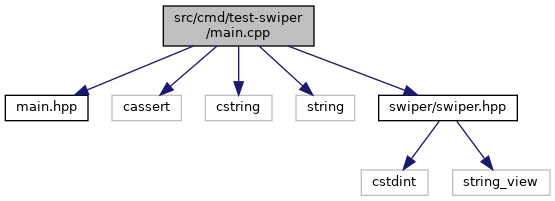
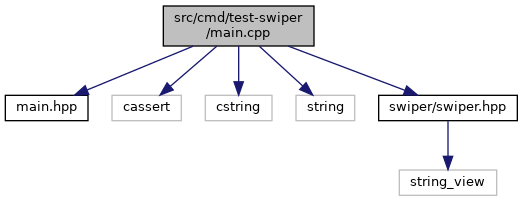
Travis build: 143
Commit: b96a10362ba934e934443407af863b7367ea7ec6

diff --git a/swiper_8hpp_source.html b/swiper_8hpp_source.html
@@ -71,47 +71,46 @@ $(function() {
 <div class="contents">
 <a href="swiper_8hpp.html">Go to the documentation of this file.</a><div class="fragment"><div class="line"><a name="l00001"></a><span class="lineno">    1</span>&#160;<span class="preprocessor">#pragma once</span></div>
 <div class="line"><a name="l00002"></a><span class="lineno">    2</span>&#160; </div>
-<div class="line"><a name="l00010"></a><span class="lineno">   10</span>&#160;<span class="preprocessor">#include &lt;cstdint&gt;</span></div>
-<div class="line"><a name="l00011"></a><span class="lineno">   11</span>&#160;<span class="preprocessor">#include &lt;string_view&gt;</span></div>
-<div class="line"><a name="l00012"></a><span class="lineno">   12</span>&#160; </div>
-<div class="line"><a name="l00016"></a><span class="lineno">   16</span>&#160;<span class="preprocessor">#if defined(_WIN32)</span></div>
-<div class="line"><a name="l00017"></a><span class="lineno">   17</span>&#160;<span class="preprocessor">#define ALWAYS_INLINE __forceinline</span></div>
-<div class="line"><a name="l00018"></a><span class="lineno">   18</span>&#160;<span class="preprocessor">#define NEVER_INLINE __declspec(noinline)</span></div>
-<div class="line"><a name="l00019"></a><span class="lineno">   19</span>&#160;<span class="preprocessor">#else</span></div>
-<div class="line"><a name="l00020"></a><span class="lineno"><a class="line" href="swiper_8hpp.html#aa1dec568e79152c892dcf63f445cbd7a">   20</a></span>&#160;<span class="preprocessor">#define ALWAYS_INLINE inline __attribute((__always_inline__))</span></div>
-<div class="line"><a name="l00021"></a><span class="lineno"><a class="line" href="swiper_8hpp.html#a5251990c23668b067a282c9c3a8ef84a">   21</a></span>&#160;<span class="preprocessor">#define NEVER_INLINE __attribute__ ((__noinline__))</span></div>
-<div class="line"><a name="l00022"></a><span class="lineno">   22</span>&#160;<span class="preprocessor">#endif</span></div>
-<div class="line"><a name="l00023"></a><span class="lineno">   23</span>&#160; </div>
-<div class="line"><a name="l00024"></a><span class="lineno">   24</span>&#160;<span class="preprocessor">#if defined(_WIN32)</span></div>
-<div class="line"><a name="l00025"></a><span class="lineno">   25</span>&#160;<span class="preprocessor">#define NOP __asm{}</span></div>
-<div class="line"><a name="l00026"></a><span class="lineno">   26</span>&#160;<span class="preprocessor">#else</span></div>
-<div class="line"><a name="l00027"></a><span class="lineno"><a class="line" href="swiper_8hpp.html#a700f88377bf36711b711f69b06c52f5d">   27</a></span>&#160;<span class="preprocessor">#define NOP __asm(&quot;&quot;)</span></div>
-<div class="line"><a name="l00028"></a><span class="lineno">   28</span>&#160;<span class="preprocessor">#endif</span></div>
-<div class="line"><a name="l00029"></a><span class="lineno">   29</span>&#160; </div>
-<div class="line"><a name="l00033"></a><span class="lineno"><a class="line" href="namespaceswiper.html">   33</a></span>&#160;<span class="keyword">namespace </span><a class="code" href="namespaceswiper.html">swiper</a> {</div>
-<div class="line"><a name="l00037"></a><span class="lineno"><a class="line" href="namespaceswiper.html#ab43dcb17f7a89d96bf9cc54ebe6862ee">   37</a></span>&#160;    <span class="keyword">const</span> uint8_t <a class="code" href="namespaceswiper.html#ab43dcb17f7a89d96bf9cc54ebe6862ee">Xlat</a>[32] = {</div>
-<div class="line"><a name="l00038"></a><span class="lineno">   38</span>&#160;        0x64, 0x73, 0x66, 0x64,</div>
-<div class="line"><a name="l00039"></a><span class="lineno">   39</span>&#160;        0x3b, 0x6b, 0x66, 0x6f,</div>
-<div class="line"><a name="l00040"></a><span class="lineno">   40</span>&#160;        0x41, 0x2c, 0x2e, 0x69,</div>
-<div class="line"><a name="l00041"></a><span class="lineno">   41</span>&#160;        0x79, 0x65, 0x77, 0x72,</div>
-<div class="line"><a name="l00042"></a><span class="lineno">   42</span>&#160;        0x6b, 0x6c, 0x64, 0x4a,</div>
-<div class="line"><a name="l00043"></a><span class="lineno">   43</span>&#160;        0x4b, 0x44, 0x48, 0x53,</div>
-<div class="line"><a name="l00044"></a><span class="lineno">   44</span>&#160;        0x55, 0x42, 0x73, 0x00,</div>
-<div class="line"><a name="l00045"></a><span class="lineno">   45</span>&#160;        0x00, 0x00, 0x00, 0x00</div>
-<div class="line"><a name="l00046"></a><span class="lineno">   46</span>&#160;    };</div>
-<div class="line"><a name="l00047"></a><span class="lineno">   47</span>&#160; </div>
-<div class="line"><a name="l00053"></a><span class="lineno">   53</span>&#160;    <span class="keywordtype">void</span> <a class="code" href="namespaceswiper.html#ac858a6550f91c1f9d279ff62956abbc2">Spin</a>(int32_t n) noexcept;</div>
-<div class="line"><a name="l00054"></a><span class="lineno">   54</span>&#160; </div>
-<div class="line"><a name="l00065"></a><span class="lineno">   65</span>&#160;    <span class="keywordtype">void</span> <a class="code" href="namespaceswiper.html#ae7cba442c68e5b3d9eeb4e994800b43d">WarmCache</a>(<span class="keywordtype">char</span> *password, <span class="keyword">const</span> std::string_view&amp; hash, int32_t n) noexcept;</div>
-<div class="line"><a name="l00066"></a><span class="lineno">   66</span>&#160; </div>
-<div class="line"><a name="l00077"></a><span class="lineno">   77</span>&#160;    <span class="keywordtype">void</span> <a class="code" href="namespaceswiper.html#a31bf3c2415b5b36b6fef855352c54c1b">Decrypt</a>(<span class="keywordtype">char</span> *password, <span class="keyword">const</span> std::string_view&amp; hash) noexcept;</div>
-<div class="line"><a name="l00078"></a><span class="lineno">   78</span>&#160;}</div>
+<div class="line"><a name="l00010"></a><span class="lineno">   10</span>&#160;<span class="preprocessor">#include &lt;string_view&gt;</span></div>
+<div class="line"><a name="l00011"></a><span class="lineno">   11</span>&#160; </div>
+<div class="line"><a name="l00015"></a><span class="lineno">   15</span>&#160;<span class="preprocessor">#if defined(_WIN32)</span></div>
+<div class="line"><a name="l00016"></a><span class="lineno">   16</span>&#160;<span class="preprocessor">#define ALWAYS_INLINE __forceinline</span></div>
+<div class="line"><a name="l00017"></a><span class="lineno">   17</span>&#160;<span class="preprocessor">#define NEVER_INLINE __declspec(noinline)</span></div>
+<div class="line"><a name="l00018"></a><span class="lineno">   18</span>&#160;<span class="preprocessor">#else</span></div>
+<div class="line"><a name="l00019"></a><span class="lineno"><a class="line" href="swiper_8hpp.html#aa1dec568e79152c892dcf63f445cbd7a">   19</a></span>&#160;<span class="preprocessor">#define ALWAYS_INLINE inline __attribute((__always_inline__))</span></div>
+<div class="line"><a name="l00020"></a><span class="lineno"><a class="line" href="swiper_8hpp.html#a5251990c23668b067a282c9c3a8ef84a">   20</a></span>&#160;<span class="preprocessor">#define NEVER_INLINE __attribute__ ((__noinline__))</span></div>
+<div class="line"><a name="l00021"></a><span class="lineno">   21</span>&#160;<span class="preprocessor">#endif</span></div>
+<div class="line"><a name="l00022"></a><span class="lineno">   22</span>&#160; </div>
+<div class="line"><a name="l00023"></a><span class="lineno">   23</span>&#160;<span class="preprocessor">#if defined(_WIN32)</span></div>
+<div class="line"><a name="l00024"></a><span class="lineno">   24</span>&#160;<span class="preprocessor">#define NOP __asm{}</span></div>
+<div class="line"><a name="l00025"></a><span class="lineno">   25</span>&#160;<span class="preprocessor">#else</span></div>
+<div class="line"><a name="l00026"></a><span class="lineno"><a class="line" href="swiper_8hpp.html#a700f88377bf36711b711f69b06c52f5d">   26</a></span>&#160;<span class="preprocessor">#define NOP __asm(&quot;&quot;)</span></div>
+<div class="line"><a name="l00027"></a><span class="lineno">   27</span>&#160;<span class="preprocessor">#endif</span></div>
+<div class="line"><a name="l00028"></a><span class="lineno">   28</span>&#160; </div>
+<div class="line"><a name="l00032"></a><span class="lineno"><a class="line" href="namespaceswiper.html">   32</a></span>&#160;<span class="keyword">namespace </span><a class="code" href="namespaceswiper.html">swiper</a> {</div>
+<div class="line"><a name="l00036"></a><span class="lineno"><a class="line" href="namespaceswiper.html#a0e5a5404a5aaf5ab2bdc034346d402d0">   36</a></span>&#160;    <span class="keyword">const</span> <span class="keywordtype">char</span> <a class="code" href="namespaceswiper.html#a0e5a5404a5aaf5ab2bdc034346d402d0">Xlat</a>[32] = {</div>
+<div class="line"><a name="l00037"></a><span class="lineno">   37</span>&#160;        0x64, 0x73, 0x66, 0x64,</div>
+<div class="line"><a name="l00038"></a><span class="lineno">   38</span>&#160;        0x3b, 0x6b, 0x66, 0x6f,</div>
+<div class="line"><a name="l00039"></a><span class="lineno">   39</span>&#160;        0x41, 0x2c, 0x2e, 0x69,</div>
+<div class="line"><a name="l00040"></a><span class="lineno">   40</span>&#160;        0x79, 0x65, 0x77, 0x72,</div>
+<div class="line"><a name="l00041"></a><span class="lineno">   41</span>&#160;        0x6b, 0x6c, 0x64, 0x4a,</div>
+<div class="line"><a name="l00042"></a><span class="lineno">   42</span>&#160;        0x4b, 0x44, 0x48, 0x53,</div>
+<div class="line"><a name="l00043"></a><span class="lineno">   43</span>&#160;        0x55, 0x42, 0x73, 0x00,</div>
+<div class="line"><a name="l00044"></a><span class="lineno">   44</span>&#160;        0x00, 0x00, 0x00, 0x00</div>
+<div class="line"><a name="l00045"></a><span class="lineno">   45</span>&#160;    };</div>
+<div class="line"><a name="l00046"></a><span class="lineno">   46</span>&#160; </div>
+<div class="line"><a name="l00052"></a><span class="lineno">   52</span>&#160;    <span class="keywordtype">void</span> <a class="code" href="namespaceswiper.html#aebebfcffb1d79f4c6117ab98502454b9">Spin</a>(<span class="keywordtype">int</span> n) noexcept;</div>
+<div class="line"><a name="l00053"></a><span class="lineno">   53</span>&#160; </div>
+<div class="line"><a name="l00064"></a><span class="lineno">   64</span>&#160;    <span class="keywordtype">void</span> <a class="code" href="namespaceswiper.html#a007ec3a3e168bc928b2d85820efa4774">WarmCache</a>(<span class="keywordtype">char</span> *password, <span class="keyword">const</span> std::string_view&amp; hash, <span class="keywordtype">int</span> n) noexcept;</div>
+<div class="line"><a name="l00065"></a><span class="lineno">   65</span>&#160; </div>
+<div class="line"><a name="l00076"></a><span class="lineno">   76</span>&#160;    <span class="keywordtype">void</span> <a class="code" href="namespaceswiper.html#a31bf3c2415b5b36b6fef855352c54c1b">Decrypt</a>(<span class="keywordtype">char</span> *password, <span class="keyword">const</span> std::string_view&amp; hash) noexcept;</div>
+<div class="line"><a name="l00077"></a><span class="lineno">   77</span>&#160;}</div>
 </div><!-- fragment --></div><!-- contents -->
-<div class="ttc" id="anamespaceswiper_html_ac858a6550f91c1f9d279ff62956abbc2"><div class="ttname"><a href="namespaceswiper.html#ac858a6550f91c1f9d279ff62956abbc2">swiper::Spin</a></div><div class="ttdeci">void Spin(int32_t n) noexcept</div><div class="ttdoc">Spin performs n NOP's, useful for reducing benchmark noise.</div><div class="ttdef"><b>Definition:</b> swiper.cpp:33</div></div>
-<div class="ttc" id="anamespaceswiper_html"><div class="ttname"><a href="namespaceswiper.html">swiper</a></div><div class="ttdoc">swiper manages legacy Cisco IOS^tm type 7 passwords.</div><div class="ttdef"><b>Definition:</b> swiper.hpp:33</div></div>
-<div class="ttc" id="anamespaceswiper_html_a31bf3c2415b5b36b6fef855352c54c1b"><div class="ttname"><a href="namespaceswiper.html#a31bf3c2415b5b36b6fef855352c54c1b">swiper::Decrypt</a></div><div class="ttdeci">void Decrypt(char *password, const std::string_view &amp;hash) noexcept</div><div class="ttdoc">Decrypt reverses Cisco IOS type 7 hashes.</div><div class="ttdef"><b>Definition:</b> swiper.cpp:45</div></div>
-<div class="ttc" id="anamespaceswiper_html_ae7cba442c68e5b3d9eeb4e994800b43d"><div class="ttname"><a href="namespaceswiper.html#ae7cba442c68e5b3d9eeb4e994800b43d">swiper::WarmCache</a></div><div class="ttdeci">void WarmCache(char *password, const std::string_view &amp;hash, int32_t n) noexcept</div><div class="ttdoc">WarmCache accelerates successive Decrypt calls, by prepopulating the system cache.</div><div class="ttdef"><b>Definition:</b> swiper.cpp:39</div></div>
-<div class="ttc" id="anamespaceswiper_html_ab43dcb17f7a89d96bf9cc54ebe6862ee"><div class="ttname"><a href="namespaceswiper.html#ab43dcb17f7a89d96bf9cc54ebe6862ee">swiper::Xlat</a></div><div class="ttdeci">const uint8_t Xlat[32]</div><div class="ttdoc">Xlat is a fixed XOR key.</div><div class="ttdef"><b>Definition:</b> swiper.hpp:37</div></div>
+<div class="ttc" id="anamespaceswiper_html"><div class="ttname"><a href="namespaceswiper.html">swiper</a></div><div class="ttdoc">swiper manages legacy Cisco IOS^tm type 7 passwords.</div><div class="ttdef"><b>Definition:</b> swiper.hpp:32</div></div>
+<div class="ttc" id="anamespaceswiper_html_a31bf3c2415b5b36b6fef855352c54c1b"><div class="ttname"><a href="namespaceswiper.html#a31bf3c2415b5b36b6fef855352c54c1b">swiper::Decrypt</a></div><div class="ttdeci">void Decrypt(char *password, const std::string_view &amp;hash) noexcept</div><div class="ttdoc">Decrypt reverses Cisco IOS type 7 hashes.</div><div class="ttdef"><b>Definition:</b> swiper.cpp:44</div></div>
+<div class="ttc" id="anamespaceswiper_html_a0e5a5404a5aaf5ab2bdc034346d402d0"><div class="ttname"><a href="namespaceswiper.html#a0e5a5404a5aaf5ab2bdc034346d402d0">swiper::Xlat</a></div><div class="ttdeci">const char Xlat[32]</div><div class="ttdoc">Xlat is a fixed XOR key.</div><div class="ttdef"><b>Definition:</b> swiper.hpp:36</div></div>
+<div class="ttc" id="anamespaceswiper_html_a007ec3a3e168bc928b2d85820efa4774"><div class="ttname"><a href="namespaceswiper.html#a007ec3a3e168bc928b2d85820efa4774">swiper::WarmCache</a></div><div class="ttdeci">void WarmCache(char *password, const std::string_view &amp;hash, int n) noexcept</div><div class="ttdoc">WarmCache accelerates successive Decrypt calls, by prepopulating the system cache.</div><div class="ttdef"><b>Definition:</b> swiper.cpp:38</div></div>
+<div class="ttc" id="anamespaceswiper_html_aebebfcffb1d79f4c6117ab98502454b9"><div class="ttname"><a href="namespaceswiper.html#aebebfcffb1d79f4c6117ab98502454b9">swiper::Spin</a></div><div class="ttdeci">void Spin(int n) noexcept</div><div class="ttdoc">Spin performs n NOP's, useful for reducing benchmark noise.</div><div class="ttdef"><b>Definition:</b> swiper.cpp:32</div></div>
 <!-- start footer part -->
 <hr class="footer"/><address class="footer"><small>
 Generated by &#160;<a href="http://www.doxygen.org/index.html">

diff --git a/namespaceswiper.html b/namespaceswiper.html
@@ -74,21 +74,21 @@ $(function() {
 <table class="memberdecls">
 <tr class="heading"><td colspan="2"><h2 class="groupheader"><a name="func-members"></a>
 Functions</h2></td></tr>
-<tr class="memitem:ac858a6550f91c1f9d279ff62956abbc2"><td class="memItemLeft" align="right" valign="top">void&#160;</td><td class="memItemRight" valign="bottom"><a class="el" href="namespaceswiper.html#ac858a6550f91c1f9d279ff62956abbc2">Spin</a> (int32_t n) noexcept</td></tr>
-<tr class="memdesc:ac858a6550f91c1f9d279ff62956abbc2"><td class="mdescLeft">&#160;</td><td class="mdescRight">Spin performs n NOP's, useful for reducing benchmark noise.  <a href="namespaceswiper.html#ac858a6550f91c1f9d279ff62956abbc2">More...</a><br /></td></tr>
-<tr class="separator:ac858a6550f91c1f9d279ff62956abbc2"><td class="memSeparator" colspan="2">&#160;</td></tr>
-<tr class="memitem:ae7cba442c68e5b3d9eeb4e994800b43d"><td class="memItemLeft" align="right" valign="top">void&#160;</td><td class="memItemRight" valign="bottom"><a class="el" href="namespaceswiper.html#ae7cba442c68e5b3d9eeb4e994800b43d">WarmCache</a> (char *password, const std::string_view &amp;hash, int32_t n) noexcept</td></tr>
-<tr class="memdesc:ae7cba442c68e5b3d9eeb4e994800b43d"><td class="mdescLeft">&#160;</td><td class="mdescRight">WarmCache accelerates successive <a class="el" href="namespaceswiper.html#a31bf3c2415b5b36b6fef855352c54c1b">Decrypt</a> calls, by prepopulating the system cache.  <a href="namespaceswiper.html#ae7cba442c68e5b3d9eeb4e994800b43d">More...</a><br /></td></tr>
-<tr class="separator:ae7cba442c68e5b3d9eeb4e994800b43d"><td class="memSeparator" colspan="2">&#160;</td></tr>
+<tr class="memitem:aebebfcffb1d79f4c6117ab98502454b9"><td class="memItemLeft" align="right" valign="top">void&#160;</td><td class="memItemRight" valign="bottom"><a class="el" href="namespaceswiper.html#aebebfcffb1d79f4c6117ab98502454b9">Spin</a> (int n) noexcept</td></tr>
+<tr class="memdesc:aebebfcffb1d79f4c6117ab98502454b9"><td class="mdescLeft">&#160;</td><td class="mdescRight">Spin performs n NOP's, useful for reducing benchmark noise.  <a href="namespaceswiper.html#aebebfcffb1d79f4c6117ab98502454b9">More...</a><br /></td></tr>
+<tr class="separator:aebebfcffb1d79f4c6117ab98502454b9"><td class="memSeparator" colspan="2">&#160;</td></tr>
+<tr class="memitem:a007ec3a3e168bc928b2d85820efa4774"><td class="memItemLeft" align="right" valign="top">void&#160;</td><td class="memItemRight" valign="bottom"><a class="el" href="namespaceswiper.html#a007ec3a3e168bc928b2d85820efa4774">WarmCache</a> (char *password, const std::string_view &amp;hash, int n) noexcept</td></tr>
+<tr class="memdesc:a007ec3a3e168bc928b2d85820efa4774"><td class="mdescLeft">&#160;</td><td class="mdescRight">WarmCache accelerates successive <a class="el" href="namespaceswiper.html#a31bf3c2415b5b36b6fef855352c54c1b">Decrypt</a> calls, by prepopulating the system cache.  <a href="namespaceswiper.html#a007ec3a3e168bc928b2d85820efa4774">More...</a><br /></td></tr>
+<tr class="separator:a007ec3a3e168bc928b2d85820efa4774"><td class="memSeparator" colspan="2">&#160;</td></tr>
 <tr class="memitem:a31bf3c2415b5b36b6fef855352c54c1b"><td class="memItemLeft" align="right" valign="top">void&#160;</td><td class="memItemRight" valign="bottom"><a class="el" href="namespaceswiper.html#a31bf3c2415b5b36b6fef855352c54c1b">Decrypt</a> (char *password, const std::string_view &amp;hash) noexcept</td></tr>
 <tr class="memdesc:a31bf3c2415b5b36b6fef855352c54c1b"><td class="mdescLeft">&#160;</td><td class="mdescRight">Decrypt reverses Cisco IOS type 7 hashes.  <a href="namespaceswiper.html#a31bf3c2415b5b36b6fef855352c54c1b">More...</a><br /></td></tr>
 <tr class="separator:a31bf3c2415b5b36b6fef855352c54c1b"><td class="memSeparator" colspan="2">&#160;</td></tr>
 </table><table class="memberdecls">
 <tr class="heading"><td colspan="2"><h2 class="groupheader"><a name="var-members"></a>
 Variables</h2></td></tr>
-<tr class="memitem:ab43dcb17f7a89d96bf9cc54ebe6862ee"><td class="memItemLeft" align="right" valign="top">const uint8_t&#160;</td><td class="memItemRight" valign="bottom"><a class="el" href="namespaceswiper.html#ab43dcb17f7a89d96bf9cc54ebe6862ee">Xlat</a> [32]</td></tr>
-<tr class="memdesc:ab43dcb17f7a89d96bf9cc54ebe6862ee"><td class="mdescLeft">&#160;</td><td class="mdescRight">Xlat is a fixed XOR key.  <a href="namespaceswiper.html#ab43dcb17f7a89d96bf9cc54ebe6862ee">More...</a><br /></td></tr>
-<tr class="separator:ab43dcb17f7a89d96bf9cc54ebe6862ee"><td class="memSeparator" colspan="2">&#160;</td></tr>
+<tr class="memitem:a0e5a5404a5aaf5ab2bdc034346d402d0"><td class="memItemLeft" align="right" valign="top">const char&#160;</td><td class="memItemRight" valign="bottom"><a class="el" href="namespaceswiper.html#a0e5a5404a5aaf5ab2bdc034346d402d0">Xlat</a> [32]</td></tr>
+<tr class="memdesc:a0e5a5404a5aaf5ab2bdc034346d402d0"><td class="mdescLeft">&#160;</td><td class="mdescRight">Xlat is a fixed XOR key.  <a href="namespaceswiper.html#a0e5a5404a5aaf5ab2bdc034346d402d0">More...</a><br /></td></tr>
+<tr class="separator:a0e5a5404a5aaf5ab2bdc034346d402d0"><td class="memSeparator" colspan="2">&#160;</td></tr>
 </table>
 <a name="details" id="details"></a><h2 class="groupheader">Detailed Description</h2>
 <div class="textblock"><p>swiper manages legacy Cisco IOS^tm type 7 passwords. </p>
@@ -141,8 +141,8 @@ Variables</h2></td></tr>
 
 </div>
 </div>
-<a id="ac858a6550f91c1f9d279ff62956abbc2"></a>
-<h2 class="memtitle"><span class="permalink"><a href="#ac858a6550f91c1f9d279ff62956abbc2">&#9670;&nbsp;</a></span>Spin()</h2>
+<a id="aebebfcffb1d79f4c6117ab98502454b9"></a>
+<h2 class="memtitle"><span class="permalink"><a href="#aebebfcffb1d79f4c6117ab98502454b9">&#9670;&nbsp;</a></span>Spin()</h2>
 
 <div class="memitem">
 <div class="memproto">
@@ -153,7 +153,7 @@ Variables</h2></td></tr>
         <tr>
           <td class="memname">void swiper::Spin </td>
           <td>(</td>
-          <td class="paramtype">int32_t&#160;</td>
+          <td class="paramtype">int&#160;</td>
           <td class="paramname"><em>n</em></td><td>)</td>
           <td></td>
         </tr>
@@ -175,8 +175,8 @@ Variables</h2></td></tr>
 
 </div>
 </div>
-<a id="ae7cba442c68e5b3d9eeb4e994800b43d"></a>
-<h2 class="memtitle"><span class="permalink"><a href="#ae7cba442c68e5b3d9eeb4e994800b43d">&#9670;&nbsp;</a></span>WarmCache()</h2>
+<a id="a007ec3a3e168bc928b2d85820efa4774"></a>
+<h2 class="memtitle"><span class="permalink"><a href="#a007ec3a3e168bc928b2d85820efa4774">&#9670;&nbsp;</a></span>WarmCache()</h2>
 
 <div class="memitem">
 <div class="memproto">
@@ -199,7 +199,7 @@ Variables</h2></td></tr>
         <tr>
           <td class="paramkey"></td>
           <td></td>
-          <td class="paramtype">int32_t&#160;</td>
+          <td class="paramtype">int&#160;</td>
           <td class="paramname"><em>n</em>&#160;</td>
         </tr>
         <tr>
@@ -229,14 +229,14 @@ Variables</h2></td></tr>
 </div>
 </div>
 <h2 class="groupheader">Variable Documentation</h2>
-<a id="ab43dcb17f7a89d96bf9cc54ebe6862ee"></a>
-<h2 class="memtitle"><span class="permalink"><a href="#ab43dcb17f7a89d96bf9cc54ebe6862ee">&#9670;&nbsp;</a></span>Xlat</h2>
+<a id="a0e5a5404a5aaf5ab2bdc034346d402d0"></a>
+<h2 class="memtitle"><span class="permalink"><a href="#a0e5a5404a5aaf5ab2bdc034346d402d0">&#9670;&nbsp;</a></span>Xlat</h2>
 
 <div class="memitem">
 <div class="memproto">
       <table class="memname">
         <tr>
-          <td class="memname">const uint8_t swiper::Xlat[32]</td>
+          <td class="memname">const char swiper::Xlat[32]</td>
         </tr>
       </table>
 </div><div class="memdoc">

diff --git a/swiper_8hpp.html b/swiper_8hpp.html
@@ -74,16 +74,14 @@ $(function() {
 <div class="title">swiper.hpp File Reference</div>  </div>
 </div><!--header-->
 <div class="contents">
-<div class="textblock"><code>#include &lt;cstdint&gt;</code><br />
-<code>#include &lt;string_view&gt;</code><br />
+<div class="textblock"><code>#include &lt;string_view&gt;</code><br />
 </div><div class="textblock"><div class="dynheader">
 Include dependency graph for swiper.hpp:</div>
 <div class="dyncontent">
 <div class="center"><img src="swiper_8hpp__incl.png" border="0" usemap="#include_2swiper_2swiper_8hpp" alt=""/></div>
 <map name="include_2swiper_2swiper_8hpp" id="include_2swiper_2swiper_8hpp">
 <area shape="rect" title=" " alt="" coords="5,5,196,32"/>
-<area shape="rect" title=" " alt="" coords="14,80,81,107"/>
-<area shape="rect" title=" " alt="" coords="105,80,203,107"/>
+<area shape="rect" title=" " alt="" coords="52,80,149,107"/>
 </map>
 </div>
 </div><div class="textblock"><div class="dynheader">
@@ -116,21 +114,21 @@ Macros</h2></td></tr>
 </table><table class="memberdecls">
 <tr class="heading"><td colspan="2"><h2 class="groupheader"><a name="func-members"></a>
 Functions</h2></td></tr>
-<tr class="memitem:ac858a6550f91c1f9d279ff62956abbc2"><td class="memItemLeft" align="right" valign="top">void&#160;</td><td class="memItemRight" valign="bottom"><a class="el" href="namespaceswiper.html#ac858a6550f91c1f9d279ff62956abbc2">swiper::Spin</a> (int32_t n) noexcept</td></tr>
-<tr class="memdesc:ac858a6550f91c1f9d279ff62956abbc2"><td class="mdescLeft">&#160;</td><td class="mdescRight">Spin performs n NOP's, useful for reducing benchmark noise.  <a href="namespaceswiper.html#ac858a6550f91c1f9d279ff62956abbc2">More...</a><br /></td></tr>
-<tr class="separator:ac858a6550f91c1f9d279ff62956abbc2"><td class="memSeparator" colspan="2">&#160;</td></tr>
-<tr class="memitem:ae7cba442c68e5b3d9eeb4e994800b43d"><td class="memItemLeft" align="right" valign="top">void&#160;</td><td class="memItemRight" valign="bottom"><a class="el" href="namespaceswiper.html#ae7cba442c68e5b3d9eeb4e994800b43d">swiper::WarmCache</a> (char *password, const std::string_view &amp;hash, int32_t n) noexcept</td></tr>
-<tr class="memdesc:ae7cba442c68e5b3d9eeb4e994800b43d"><td class="mdescLeft">&#160;</td><td class="mdescRight">WarmCache accelerates successive <a class="el" href="namespaceswiper.html#a31bf3c2415b5b36b6fef855352c54c1b">Decrypt</a> calls, by prepopulating the system cache.  <a href="namespaceswiper.html#ae7cba442c68e5b3d9eeb4e994800b43d">More...</a><br /></td></tr>
-<tr class="separator:ae7cba442c68e5b3d9eeb4e994800b43d"><td class="memSeparator" colspan="2">&#160;</td></tr>
+<tr class="memitem:aebebfcffb1d79f4c6117ab98502454b9"><td class="memItemLeft" align="right" valign="top">void&#160;</td><td class="memItemRight" valign="bottom"><a class="el" href="namespaceswiper.html#aebebfcffb1d79f4c6117ab98502454b9">swiper::Spin</a> (int n) noexcept</td></tr>
+<tr class="memdesc:aebebfcffb1d79f4c6117ab98502454b9"><td class="mdescLeft">&#160;</td><td class="mdescRight">Spin performs n NOP's, useful for reducing benchmark noise.  <a href="namespaceswiper.html#aebebfcffb1d79f4c6117ab98502454b9">More...</a><br /></td></tr>
+<tr class="separator:aebebfcffb1d79f4c6117ab98502454b9"><td class="memSeparator" colspan="2">&#160;</td></tr>
+<tr class="memitem:a007ec3a3e168bc928b2d85820efa4774"><td class="memItemLeft" align="right" valign="top">void&#160;</td><td class="memItemRight" valign="bottom"><a class="el" href="namespaceswiper.html#a007ec3a3e168bc928b2d85820efa4774">swiper::WarmCache</a> (char *password, const std::string_view &amp;hash, int n) noexcept</td></tr>
+<tr class="memdesc:a007ec3a3e168bc928b2d85820efa4774"><td class="mdescLeft">&#160;</td><td class="mdescRight">WarmCache accelerates successive <a class="el" href="namespaceswiper.html#a31bf3c2415b5b36b6fef855352c54c1b">Decrypt</a> calls, by prepopulating the system cache.  <a href="namespaceswiper.html#a007ec3a3e168bc928b2d85820efa4774">More...</a><br /></td></tr>
+<tr class="separator:a007ec3a3e168bc928b2d85820efa4774"><td class="memSeparator" colspan="2">&#160;</td></tr>
 <tr class="memitem:a31bf3c2415b5b36b6fef855352c54c1b"><td class="memItemLeft" align="right" valign="top">void&#160;</td><td class="memItemRight" valign="bottom"><a class="el" href="namespaceswiper.html#a31bf3c2415b5b36b6fef855352c54c1b">swiper::Decrypt</a> (char *password, const std::string_view &amp;hash) noexcept</td></tr>
 <tr class="memdesc:a31bf3c2415b5b36b6fef855352c54c1b"><td class="mdescLeft">&#160;</td><td class="mdescRight">Decrypt reverses Cisco IOS type 7 hashes.  <a href="namespaceswiper.html#a31bf3c2415b5b36b6fef855352c54c1b">More...</a><br /></td></tr>
 <tr class="separator:a31bf3c2415b5b36b6fef855352c54c1b"><td class="memSeparator" colspan="2">&#160;</td></tr>
 </table><table class="memberdecls">
 <tr class="heading"><td colspan="2"><h2 class="groupheader"><a name="var-members"></a>
 Variables</h2></td></tr>
-<tr class="memitem:ab43dcb17f7a89d96bf9cc54ebe6862ee"><td class="memItemLeft" align="right" valign="top">const uint8_t&#160;</td><td class="memItemRight" valign="bottom"><a class="el" href="namespaceswiper.html#ab43dcb17f7a89d96bf9cc54ebe6862ee">swiper::Xlat</a> [32]</td></tr>
-<tr class="memdesc:ab43dcb17f7a89d96bf9cc54ebe6862ee"><td class="mdescLeft">&#160;</td><td class="mdescRight">Xlat is a fixed XOR key.  <a href="namespaceswiper.html#ab43dcb17f7a89d96bf9cc54ebe6862ee">More...</a><br /></td></tr>
-<tr class="separator:ab43dcb17f7a89d96bf9cc54ebe6862ee"><td class="memSeparator" colspan="2">&#160;</td></tr>
+<tr class="memitem:a0e5a5404a5aaf5ab2bdc034346d402d0"><td class="memItemLeft" align="right" valign="top">const char&#160;</td><td class="memItemRight" valign="bottom"><a class="el" href="namespaceswiper.html#a0e5a5404a5aaf5ab2bdc034346d402d0">swiper::Xlat</a> [32]</td></tr>
+<tr class="memdesc:a0e5a5404a5aaf5ab2bdc034346d402d0"><td class="mdescLeft">&#160;</td><td class="mdescRight">Xlat is a fixed XOR key.  <a href="namespaceswiper.html#a0e5a5404a5aaf5ab2bdc034346d402d0">More...</a><br /></td></tr>
+<tr class="separator:a0e5a5404a5aaf5ab2bdc034346d402d0"><td class="memSeparator" colspan="2">&#160;</td></tr>
 </table>
 <h2 class="groupheader">Macro Definition Documentation</h2>
 <a id="aa1dec568e79152c892dcf63f445cbd7a"></a>

diff --git a/swiper_8cpp.html b/swiper_8cpp.html
@@ -73,19 +73,16 @@ $(function() {
 </div><!--header-->
 <div class="contents">
 <div class="textblock"><code>#include &quot;<a class="el" href="swiper_8hpp_source.html">swiper/swiper.hpp</a>&quot;</code><br />
-<code>#include &lt;cstddef&gt;</code><br />
 <code>#include &lt;type_traits&gt;</code><br />
 </div><div class="textblock"><div class="dynheader">
 Include dependency graph for swiper.cpp:</div>
 <div class="dyncontent">
 <div class="center"><img src="swiper_8cpp__incl.png" border="0" usemap="#src_2swiper_8cpp" alt=""/></div>
 <map name="src_2swiper_8cpp" id="src_2swiper_8cpp">
-<area shape="rect" title=" " alt="" coords="164,5,279,32"/>
-<area shape="rect" href="swiper_8hpp.html" title=" " alt="" coords="23,80,161,107"/>
-<area shape="rect" title=" " alt="" coords="186,80,257,107"/>
-<area shape="rect" title=" " alt="" coords="281,80,373,107"/>
-<area shape="rect" title=" " alt="" coords="5,155,72,181"/>
-<area shape="rect" title=" " alt="" coords="97,155,194,181"/>
+<area shape="rect" title=" " alt="" coords="87,5,201,32"/>
+<area shape="rect" href="swiper_8hpp.html" title=" " alt="" coords="5,80,144,107"/>
+<area shape="rect" title=" " alt="" coords="169,80,261,107"/>
+<area shape="rect" title=" " alt="" coords="26,155,123,181"/>
 </map>
 </div>
 </div><table class="memberdecls">
@@ -97,12 +94,12 @@ Namespaces</h2></td></tr>
 </table><table class="memberdecls">
 <tr class="heading"><td colspan="2"><h2 class="groupheader"><a name="func-members"></a>
 Functions</h2></td></tr>
-<tr class="memitem:ac858a6550f91c1f9d279ff62956abbc2"><td class="memItemLeft" align="right" valign="top">void&#160;</td><td class="memItemRight" valign="bottom"><a class="el" href="namespaceswiper.html#ac858a6550f91c1f9d279ff62956abbc2">swiper::Spin</a> (int32_t n) noexcept</td></tr>
-<tr class="memdesc:ac858a6550f91c1f9d279ff62956abbc2"><td class="mdescLeft">&#160;</td><td class="mdescRight">Spin performs n NOP's, useful for reducing benchmark noise.  <a href="namespaceswiper.html#ac858a6550f91c1f9d279ff62956abbc2">More...</a><br /></td></tr>
-<tr class="separator:ac858a6550f91c1f9d279ff62956abbc2"><td class="memSeparator" colspan="2">&#160;</td></tr>
-<tr class="memitem:ae7cba442c68e5b3d9eeb4e994800b43d"><td class="memItemLeft" align="right" valign="top">void&#160;</td><td class="memItemRight" valign="bottom"><a class="el" href="namespaceswiper.html#ae7cba442c68e5b3d9eeb4e994800b43d">swiper::WarmCache</a> (char *password, const std::string_view &amp;hash, int32_t n) noexcept</td></tr>
-<tr class="memdesc:ae7cba442c68e5b3d9eeb4e994800b43d"><td class="mdescLeft">&#160;</td><td class="mdescRight">WarmCache accelerates successive <a class="el" href="namespaceswiper.html#a31bf3c2415b5b36b6fef855352c54c1b">Decrypt</a> calls, by prepopulating the system cache.  <a href="namespaceswiper.html#ae7cba442c68e5b3d9eeb4e994800b43d">More...</a><br /></td></tr>
-<tr class="separator:ae7cba442c68e5b3d9eeb4e994800b43d"><td class="memSeparator" colspan="2">&#160;</td></tr>
+<tr class="memitem:aebebfcffb1d79f4c6117ab98502454b9"><td class="memItemLeft" align="right" valign="top">void&#160;</td><td class="memItemRight" valign="bottom"><a class="el" href="namespaceswiper.html#aebebfcffb1d79f4c6117ab98502454b9">swiper::Spin</a> (int n) noexcept</td></tr>
+<tr class="memdesc:aebebfcffb1d79f4c6117ab98502454b9"><td class="mdescLeft">&#160;</td><td class="mdescRight">Spin performs n NOP's, useful for reducing benchmark noise.  <a href="namespaceswiper.html#aebebfcffb1d79f4c6117ab98502454b9">More...</a><br /></td></tr>
+<tr class="separator:aebebfcffb1d79f4c6117ab98502454b9"><td class="memSeparator" colspan="2">&#160;</td></tr>
+<tr class="memitem:a007ec3a3e168bc928b2d85820efa4774"><td class="memItemLeft" align="right" valign="top">void&#160;</td><td class="memItemRight" valign="bottom"><a class="el" href="namespaceswiper.html#a007ec3a3e168bc928b2d85820efa4774">swiper::WarmCache</a> (char *password, const std::string_view &amp;hash, int n) noexcept</td></tr>
+<tr class="memdesc:a007ec3a3e168bc928b2d85820efa4774"><td class="mdescLeft">&#160;</td><td class="mdescRight">WarmCache accelerates successive <a class="el" href="namespaceswiper.html#a31bf3c2415b5b36b6fef855352c54c1b">Decrypt</a> calls, by prepopulating the system cache.  <a href="namespaceswiper.html#a007ec3a3e168bc928b2d85820efa4774">More...</a><br /></td></tr>
+<tr class="separator:a007ec3a3e168bc928b2d85820efa4774"><td class="memSeparator" colspan="2">&#160;</td></tr>
 <tr class="memitem:a31bf3c2415b5b36b6fef855352c54c1b"><td class="memItemLeft" align="right" valign="top">void&#160;</td><td class="memItemRight" valign="bottom"><a class="el" href="namespaceswiper.html#a31bf3c2415b5b36b6fef855352c54c1b">swiper::Decrypt</a> (char *password, const std::string_view &amp;hash) noexcept</td></tr>
 <tr class="memdesc:a31bf3c2415b5b36b6fef855352c54c1b"><td class="mdescLeft">&#160;</td><td class="mdescRight">Decrypt reverses Cisco IOS type 7 hashes.  <a href="namespaceswiper.html#a31bf3c2415b5b36b6fef855352c54c1b">More...</a><br /></td></tr>
 <tr class="separator:a31bf3c2415b5b36b6fef855352c54c1b"><td class="memSeparator" colspan="2">&#160;</td></tr>

diff --git a/namespacemembers.html b/namespacemembers.html
@@ -66,13 +66,13 @@ $(function() {
 : <a class="el" href="namespaceswiper.html#a31bf3c2415b5b36b6fef855352c54c1b">swiper</a>
 </li>
 <li>Spin()
-: <a class="el" href="namespaceswiper.html#ac858a6550f91c1f9d279ff62956abbc2">swiper</a>
+: <a class="el" href="namespaceswiper.html#aebebfcffb1d79f4c6117ab98502454b9">swiper</a>
 </li>
 <li>WarmCache()
-: <a class="el" href="namespaceswiper.html#ae7cba442c68e5b3d9eeb4e994800b43d">swiper</a>
+: <a class="el" href="namespaceswiper.html#a007ec3a3e168bc928b2d85820efa4774">swiper</a>
 </li>
 <li>Xlat
-: <a class="el" href="namespaceswiper.html#ab43dcb17f7a89d96bf9cc54ebe6862ee">swiper</a>
+: <a class="el" href="namespaceswiper.html#a0e5a5404a5aaf5ab2bdc034346d402d0">swiper</a>
 </li>
 </ul>
 </div><!-- contents -->

diff --git a/namespacemembers_func.html b/namespacemembers_func.html
@@ -66,10 +66,10 @@ $(function() {
 : <a class="el" href="namespaceswiper.html#a31bf3c2415b5b36b6fef855352c54c1b">swiper</a>
 </li>
 <li>Spin()
-: <a class="el" href="namespaceswiper.html#ac858a6550f91c1f9d279ff62956abbc2">swiper</a>
+: <a class="el" href="namespaceswiper.html#aebebfcffb1d79f4c6117ab98502454b9">swiper</a>
 </li>
 <li>WarmCache()
-: <a class="el" href="namespaceswiper.html#ae7cba442c68e5b3d9eeb4e994800b43d">swiper</a>
+: <a class="el" href="namespaceswiper.html#a007ec3a3e168bc928b2d85820efa4774">swiper</a>
 </li>
 </ul>
 </div><!-- contents -->

diff --git a/main_8cpp.html b/main_8cpp.html
@@ -87,8 +87,7 @@ Include dependency graph for main.cpp:</div>
 <area shape="rect" title=" " alt="" coords="205,95,272,121"/>
 <area shape="rect" title=" " alt="" coords="296,95,355,121"/>
 <area shape="rect" href="swiper_8hpp.html" title=" " alt="" coords="379,95,517,121"/>
-<area shape="rect" title=" " alt="" coords="361,169,428,196"/>
-<area shape="rect" title=" " alt="" coords="453,169,550,196"/>
+<area shape="rect" title=" " alt="" coords="399,169,497,196"/>
 </map>
 </div>
 </div><table class="memberdecls">

diff --git a/search/all_4.js b/search/all_4.js
@@ -1,6 +1,6 @@
 var searchData=
 [
-  ['spin_7',['Spin',['../namespaceswiper.html#ac858a6550f91c1f9d279ff62956abbc2',1,'swiper']]],
+  ['spin_7',['Spin',['../namespaceswiper.html#aebebfcffb1d79f4c6117ab98502454b9',1,'swiper']]],
   ['swiper_8',['swiper',['../namespaceswiper.html',1,'']]],
   ['swiper_2ecpp_9',['swiper.cpp',['../swiper_8cpp.html',1,'']]],
   ['swiper_2ehpp_10',['swiper.hpp',['../swiper_8hpp.html',1,'']]]

diff --git a/namespacemembers_vars.html b/namespacemembers_vars.html
@@ -63,7 +63,7 @@ $(function() {
 <div class="contents">
 &#160;<ul>
 <li>Xlat
-: <a class="el" href="namespaceswiper.html#ab43dcb17f7a89d96bf9cc54ebe6862ee">swiper</a>
+: <a class="el" href="namespaceswiper.html#a0e5a5404a5aaf5ab2bdc034346d402d0">swiper</a>
 </li>
 </ul>
 </div><!-- contents -->

diff --git a/search/all_5.js b/search/all_5.js
@@ -1,4 +1,4 @@
 var searchData=
 [
-  ['warmcache_11',['WarmCache',['../namespaceswiper.html#ae7cba442c68e5b3d9eeb4e994800b43d',1,'swiper']]]
+  ['warmcache_11',['WarmCache',['../namespaceswiper.html#a007ec3a3e168bc928b2d85820efa4774',1,'swiper']]]
 ];

diff --git a/search/functions_3.js b/search/functions_3.js
@@ -1,4 +1,4 @@
 var searchData=
 [
-  ['warmcache_21',['WarmCache',['../namespaceswiper.html#ae7cba442c68e5b3d9eeb4e994800b43d',1,'swiper']]]
+  ['warmcache_21',['WarmCache',['../namespaceswiper.html#a007ec3a3e168bc928b2d85820efa4774',1,'swiper']]]
 ];

diff --git a/search/all_6.js b/search/all_6.js
@@ -1,4 +1,4 @@
 var searchData=
 [
-  ['xlat_12',['Xlat',['../namespaceswiper.html#ab43dcb17f7a89d96bf9cc54ebe6862ee',1,'swiper']]]
+  ['xlat_12',['Xlat',['../namespaceswiper.html#a0e5a5404a5aaf5ab2bdc034346d402d0',1,'swiper']]]
 ];
